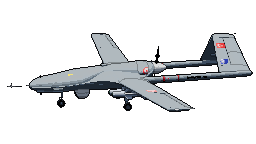
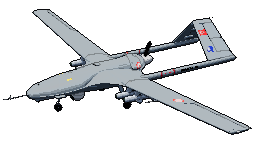
UAS: el ángulo elegido por el usuario va en la tarjeta del TB2, no en el visor
El visor del TB2 vuelve a la vista 3D de siempre (fuera vista3d). La
tarjeta de /uas admite un ángulo propio por dron (vistaTarjeta); el TB2,
61°, 20°. Tarjeta regenerada.

Claude-Session: https://claude.ai/code/session_01YcD1spsyocf8XGDNqvmqMP

Changed region(s): [[0.0, 0.0556, 1.0, 0.9444]]

diff --git a/src/scripts/visor-uas.ts b/src/scripts/visor-uas.ts
@@ -30,7 +30,7 @@ type Colores = { relleno: Color; arista: Color; resalte: Color; resalteArista: C
 // Siluetas de la tira de vistas: la maqueta entera en un solo color, con
 // cámara ortográfica (planta, perfil, frente) o en perspectiva (3D). Se
 // pintan una vez en un lienzo aparte y se usan como máscara CSS.
-function pintarSiluetas(raiz: Group, radio: number, vistas: Vista[], angulos: Record<Vista, [number, number]>): Map<Vista, string> {
+function pintarSiluetas(raiz: Group, radio: number, vistas: Vista[]): Map<Vista, string> {
   const ancho = 256, alto = 128;
   const lienzo = document.createElement("canvas");
   const r = new WebGLRenderer({ canvas: lienzo, antialias: true, alpha: true, preserveDrawingBuffer: true });
@@ -45,7 +45,7 @@ function pintarSiluetas(raiz: Group, radio: number, vistas: Vista[], angulos: Re
   escena.add(copia);
   const salida = new Map<Vista, string>();
   for (const vista of vistas) {
-    const [az, el] = angulos[vista];
+    const [az, el] = VISTAS[vista];
     const pos = new Vector3().setFromSpherical(new Spherical(radio * 4, ((90 - el) * Math.PI) / 180, (az * Math.PI) / 180));
     let camara: OrthographicCamera | PerspectiveCamera;
     if (vista === "3d") {
@@ -164,9 +164,7 @@ export function montarVisor(caja: HTMLElement, maqueta: Maqueta) {
 
   // La tira de siluetas.
   const botonesVista = [...caja.querySelectorAll<HTMLElement>("[data-vista]")];
-  // La vista 3D puede ser propia de cada dron (`vista3d` en la maqueta).
-  const angulos: Record<Vista, [number, number]> = { ...VISTAS, ...(maqueta.vista3d && { "3d": maqueta.vista3d }) };
-  const siluetas = pintarSiluetas(raiz, radio, botonesVista.map((b) => b.dataset.vista as Vista), angulos);
+  const siluetas = pintarSiluetas(raiz, radio, botonesVista.map((b) => b.dataset.vista as Vista));
   for (const b of botonesVista) {
     const url = siluetas.get(b.dataset.vista as Vista);
     const s = b.querySelector<HTMLElement>(".visor-silueta");
@@ -318,7 +316,7 @@ export function montarVisor(caja: HTMLElement, maqueta: Maqueta) {
   // no ocupa casi nada pero la esfera le guardaba sitio entero).
   const punto = new Vector3();
   const distanciaVista = (vista: Vista) => {
-    const [az, el] = angulos[vista];
+    const [az, el] = VISTAS[vista];
     const giro = new PerspectiveCamera();
     giro.position.setFromSpherical(new Spherical(1, ((90 - el) * Math.PI) / 180, (az * Math.PI) / 180));
     giro.lookAt(0, 0, 0);
@@ -342,7 +340,7 @@ export function montarVisor(caja: HTMLElement, maqueta: Maqueta) {
   // Vistas fijas: la cámara viaja hasta ellas en medio segundo.
   let animando = false;
   const ponerVista = (vista: Vista, sinViaje = false) => {
-    const [az, el] = angulos[vista];
+    const [az, el] = VISTAS[vista];
     const desde = new Spherical().setFromVector3(camara.position);
     const hasta = new Spherical(distanciaVista(vista), ((90 - el) * Math.PI) / 180, (az * Math.PI) / 180);
     // Por el camino más corto.

diff --git a/src/data/uas/bayraktar-tb2.ts b/src/data/uas/bayraktar-tb2.ts
@@ -572,10 +572,10 @@ const maqueta: Maqueta = {
   // Su gris al sol tiene una luminosidad de 0,717, en el borde de dos
   // escalones del pixel HD (puestos para el MQ-9): corridos medio escalón.
   desfaseLuz: 0.48,
-  // Vista 3D del visor: la que eligió el usuario el 2-oct-2026 con una
-  // captura (cámara encajada: acimut 61°, elevación 20°), más de lado y más
-  // baja que la de todos (38°, 32°).
-  vista3d: [61, 20],
+  // Ángulo de la tarjeta de /uas: el que eligió el usuario el 2-oct-2026 con
+  // una captura del visor (cámara encajada: acimut 61°, elevación 20°), en
+  // vez del de todas (79°, 11°).
+  vistaTarjeta: [61, 20],
   detalles: { calcas: CALCAS.map(aCalca), costuras: COSTURAS.map(aCostura) },
   pais: bandera("TR"),
   piezas: PIEZAS.map(aUnidades),

diff --git a/src/data/uas/tipos.ts b/src/data/uas/tipos.ts
@@ -171,9 +171,9 @@ export type Maqueta = {
   // sus calcas y costuras.
   hd?: boolean;
   detalles?: { calcas: Calca[]; costuras: Costura[] };
-  // Vista 3D propia del visor: [acimut, elevación] en grados (si no, la de
-  // todos, VISTAS en uas-geometria.ts).
-  vista3d?: [number, number];
+  // Ángulo propio de la tarjeta de /uas: [acimut, elevación] en grados (si
+  // no, el de todas, en arte/generar-uas-miniaturas-hd.mjs).
+  vistaTarjeta?: [number, number];
   // Pixel HD: cuánto se corren los escalones de luz (en escalones) para que
   // la pintura al sol caiga en el centro de uno (docs/uas-hd.md).
   desfaseLuz?: number;

diff --git a/docs/uas-hd.md b/docs/uas-hd.md
@@ -553,13 +553,9 @@ al pixel HD incluye regenerarlas.
   - Rendimiento en Zen sin medir.
   - Visto y sin tocar: en las fotos en vuelo el tren principal no se ve;
     podría recogerse.
-  - 2-oct-2026, después: el usuario eligió con una captura la vista 3D del
-    visor del TB2 (acimut 61°, elevación 20°; `vista3d` en la maqueta,
-    commit `e0c6d5f`). **Pendiente**: se equivocó; el visor tiene que volver
-    al ángulo de siempre (quitar `vista3d` del TB2) y ese ángulo era para la
-    tarjeta del hangar (`/uas`): regenerar la `tarjeta.png` del TB2 con
-    `node arte/generar-uas-miniaturas-hd.mjs bayraktar-tb2 --vista=61,20`
-    (hoy, 79°, 11° para todas) y ver cómo encaja en la tarjeta.
+  - 2-oct-2026, después: la tarjeta de `/uas` del TB2, con el ángulo que
+    eligió el usuario con una captura del visor (acimut 61°, elevación 20°;
+    `vistaTarjeta` en la maqueta). El visor sigue con el de siempre.
 - **Siguiente paso**: el dron que pida el usuario.
 
 ## Decisiones del usuario (30-sep-2026)

diff --git a/docs/uas.md b/docs/uas.md
@@ -402,10 +402,10 @@ generadores de `arte/` leen estos archivos con Node.
 - **Capó con boca** (la toma del TB2): un `casco` con `abierto` (sin tapa
   delante), algo mayor que el cuerpo de delante, y otro dentro en `hueco`
   (acabado casi negro y mate) como fondo de la boca.
-- **Vista 3D propia**: `vista3d: [acimut, elevación]` en la maqueta cambia
-  la vista 3D del visor (y su silueta) solo para ese dron. El TB2 lleva
-  [61, 20], el ángulo que eligió el usuario con una captura; para sacarlo,
-  `arte/encajar-camara.mjs` sobre la captura.
+- **Ángulo propio de la tarjeta de `/uas`**: `vistaTarjeta: [acimut,
+  elevación]` en la maqueta (si no, 79°, 11°). El TB2 lleva [61, 20], el
+  ángulo que eligió el usuario con una captura del visor; para sacarlo,
+  `arte/encajar-camara.mjs` sobre la captura. El visor no cambia.
 - **Palas con forma**: la `helice` admite `ancho` (la cuerda de la pala):
   estrecha en la raíz, más ancha a un tercio y con la punta redondeada. Sin
   él, cada pala es una tabla.
